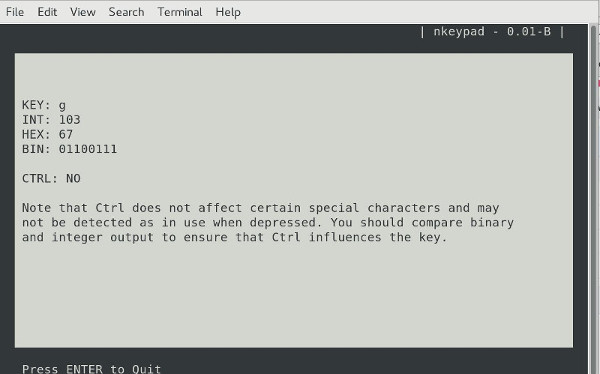
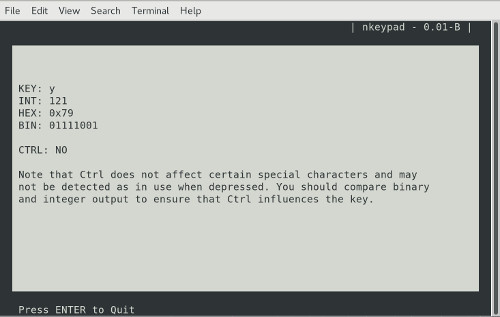
Resolved hex issues

diff --git a/src/nkeypad.cpp b/src/nkeypad.cpp
@@ -54,14 +54,14 @@ void nKeypad::drawText() {
 
     // Display the hex
     std::stringstream hss;
-    hss << std::uppercase << std::setfill('0') << std::setw(2) << std::hex << key;
+    hss << "0x" << std::uppercase << std::setfill('0') << std::setw(2) << std::hex << key;
     hexstr.append(hss.str());
 
     // Binary
     std::bitset<8> k(key);
     binstr.append(k.to_string<char,std::string::traits_type, std::string::allocator_type>());
   }
-  
+
   // Display the text
   int pos_x = min_x + 1;
   int pos_y = min_y + 2;
